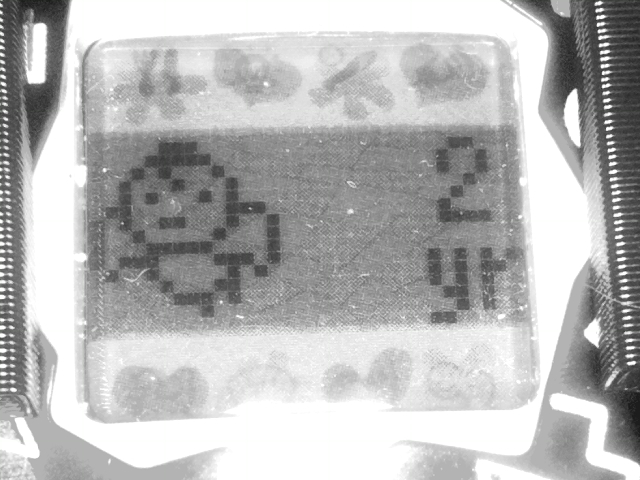
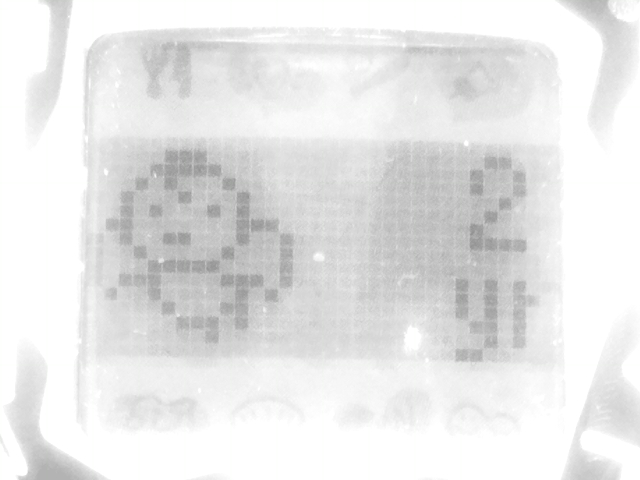
Calibrate camera in final housing

diff --git a/camera.py b/camera.py
@@ -12,8 +12,8 @@ class TamaCam():
         self.camera.framerate = 2
         self.camera.shutter_speed = 300000
         self.camera.saturation = -100
-        self.camera.zoom = (0.32, 0.25, 0.3, 0.3)
-        self.camera.brightness = 60
+        self.camera.zoom = (0.367, 0.045, 0.28, 0.28)
+        self.camera.brightness = 50
         self.camera.contrast = 100
         self.camera.sharpness = 100
         self.camera.video_denoise = 'False'
